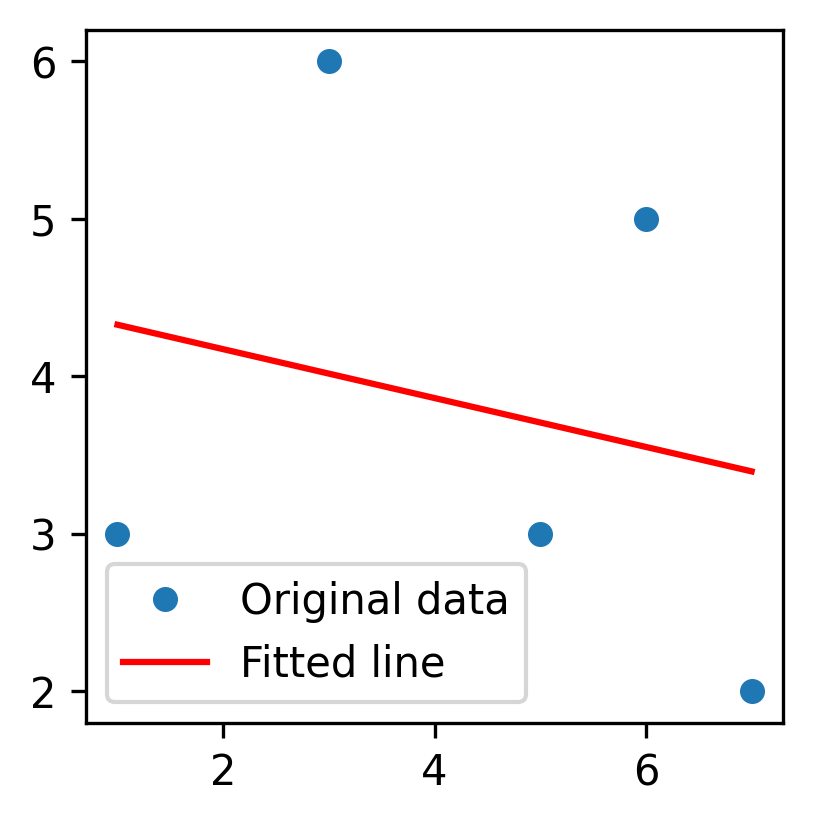
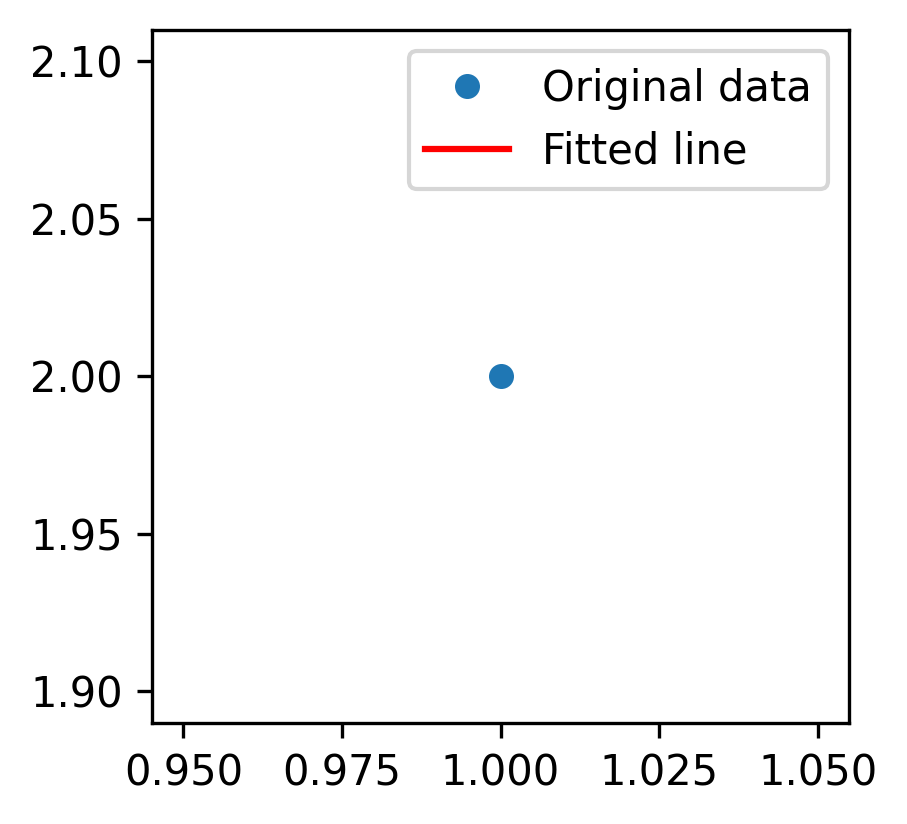
сделали модульность кодов, создали юниттесты для них

diff --git a/UP02_group_3/static/content/style.css b/UP02_group_3/static/content/style.css
@@ -334,7 +334,6 @@ button {
     .page-layout > .m .c1 {
         margin: 12px 0 0 0;
     }
-}
 
 @media screen and (max-width: 600px) {
     .page-layout .l {

diff --git a/UP02_group_3/approx_2dg.py b/UP02_group_3/approx_2dg.py
@@ -6,88 +6,34 @@ from sklearn.metrics import r2_score
 
 @post('/approx2', method='POST')
 def approx2():
-    if request.forms.get('dg2_btn'):
-        try:
-            err_msg='Ошибка входных данных!'
+    req = request.forms.get('dg2_btn')
+    try:
+        err_msg='Ошибка входных данных!'
+    
+        # Получение коэффициентов из формы
+        x_arr = np.array(request.forms.get('X').split(), dtype=float)
+        y_arr = np.array(request.forms.get('Y').split(), dtype=float)
+        if not req:
+            num_elements = 10  # Заданное количество элементов
+            x_arr = np.array([random.uniform(0.0, 100.0) for _ in range(num_elements)], dtype=float)
+            y_arr = np.array([random.uniform(0.0, 100.0) for _ in range(num_elements)], dtype=float) 
 
-            # Получение коэффициентов из формы
-            x_arr = np.array(request.forms.get('X').split(), dtype=float)
-            y_arr = np.array(request.forms.get('Y').split(), dtype=float)
+        x, y = combine(x_arr, y_arr)
 
-            # Объединение массивов x и y в список пар
-            combined = list(zip(x_arr, y_arr))
-
-            # Сортировка списка пар по возрастанию значений x
-            combined.sort(key=lambda pair: pair[0])
-
-            # Разделение пар обратно на массивы x и y
-            x_sorted, y_sorted = zip(*combined)
-
-            # Преобразование обратно в массивы NumPy
-            x = np.array(x_sorted)
-            y = np.array(y_sorted)
-
-            #проверка на то, чтобы график не был одной точкой
-            trigg = False
-            for i in range(1, len(x)):
-                if x[i] != x[0]:
-                    trigg = True
-                else:
-                    trigg = False
-            for i in range(1, len(y)):
-                if y[i] != y[0]:
-                    trigg = True
-                else:
-                    trigg = False
-
-            # Аппроксимация методом наименьших квадратов
-            A = np.vstack([x**2, x, np.ones(len(x))]).T
-            k, b, c = np.linalg.lstsq(A, y, rcond=None)[0]
-            y_pred = k*x**2 + b*x + c
-            r2 = r2_score(y, y_pred) #вычисление коэффициента детерминации
-
-            # Построение графика
-            fig, ax = plt.subplots(figsize=(5, 5))
-            ax.plot(x, y, 'o', label='Исходные данные', markersize=5)
-            ax.plot(x, k * x**2 + b * x + c, 'r', label='Приближенная линия')
-            ax.set_xlabel('x')
-            ax.set_ylabel('y')
-            ax.legend()
-            ax.grid(True)
-            plt.show()
-            plt.savefig('static/images/square1.png', dpi=300, bbox_inches='tight') #сохранение построенного графика
-
-            msg='Коэффициенты квадратичной линии регрессии: a0={}, a1={} a2={} \nКоэффициент детерминированности R2={}'.format(toFixed(k), toFixed(b), toFixed(c), toFixed(r2))
-            
-            # Возвращает темплейт
-            if trigg != True:
-                return template('approxim_2deg.tpl', title='Аппроксимация 2-й ст.', image_data='static\images\graph_strt.png', message=err_msg)
+        #проверка на то, чтобы график не был одной точкой
+        trigg = False
+        for i in range(1, len(x)):
+            if x[i] != x[0]:
+                trigg = True
             else:
-                return template('approxim_2deg.tpl', title='Аппроксимация 2-й ст.', image_data='static\images\square1.png', message=msg)
-        except:
-            return template('approxim_2deg.tpl', title='Аппроксимация 2-й ст.', image_data='static\images\graph_strt.png', message=err_msg)
-    else:
-        num_elements = 10  # Заданное количество элементов
-        x_arr = np.array([random.uniform(0.0, 100.0) for _ in range(num_elements)], dtype=float)
-        y_arr = np.array([random.uniform(0.0, 100.0) for _ in range(num_elements)], dtype=float) 
-        # Объединение массивов x и y в список пар
-        combined = list(zip(x_arr, y_arr))
+                trigg = False
+        for i in range(1, len(y)):
+            if y[i] != y[0]:
+                trigg = True
+            else:
+                trigg = False
 
-        # Сортировка списка пар по возрастанию значений x
-        combined.sort(key=lambda pair: pair[0])
-
-        # Разделение пар обратно на массивы x и y
-        x_sorted, y_sorted = zip(*combined)
-
-        # Преобразование обратно в массивы NumPy
-        x = np.array(x_sorted)
-        y = np.array(y_sorted)
-
-        # Аппроксимация методом наименьших квадратов
-        A = np.vstack([x**2, x, np.ones(len(x))]).T
-        k, b, c = np.linalg.lstsq(A, y, rcond=None)[0]
-        y_pred = k*x**2 + b*x + c
-        r2 = r2_score(y, y_pred)
+        k, b, c, r2 =calc(x, y)
 
         # Построение графика
         fig, ax = plt.subplots(figsize=(5, 5))
@@ -98,13 +44,42 @@ def approx2():
         ax.legend()
         ax.grid(True)
         plt.show()
-
-        plt.savefig('static/images/square2.png', dpi=300, bbox_inches='tight') #сохранение построенного графика
-
+        plt.savefig('static/images/square1.png', dpi=300, bbox_inches='tight') #сохранение построенного графика
+        
         msg='X = {}; Y = {} \nКоэффициенты квадратичной линии регрессии: a0={}, a1={} a2={} \nКоэффициент детерминированности R2={}'.format(x.round(), y.round(), toFixed(k), toFixed(b), toFixed(c), toFixed(r2))
+
         # Возвращает темплейт
-        return template('approxim_2deg.tpl', title='Аппроксимация 2-й ст.', image_data='static\images\square2.png', message=msg)
+        if trigg != True:
+            return template('approxim_2deg.tpl', title='Аппроксимация 2-й ст.', image_data='static\images\graph_strt.png', message=err_msg)
+        else:
+            return template('approxim_2deg.tpl', title='Аппроксимация 2-й ст.', image_data='static\images\square1.png', message=msg)
+    except:
+        return template('approxim_2deg.tpl', title='Аппроксимация 2-й ст.', image_data='static\images\graph_strt.png', message=err_msg)
 
 def toFixed(numObj):
     digits=3
     return f"{numObj:.{digits}f}"
+
+def combine(x_arr, y_arr):
+    # Объединение массивов x и y в список пар
+    combined = list(zip(x_arr, y_arr))
+
+    # Сортировка списка пар по возрастанию значений x
+    combined.sort(key=lambda pair: pair[0])
+
+    # Разделение пар обратно на массивы x и y
+    x_sorted, y_sorted = zip(*combined)
+
+    # Преобразование обратно в массивы NumPy
+    x = np.array(x_sorted)
+    y = np.array(y_sorted)
+    return x, y
+
+def calc(x, y):
+    # Аппроксимация методом наименьших квадратов
+    A = np.vstack([x**2, x, np.ones(len(x))]).T
+    k, b, c = np.linalg.lstsq(A, y, rcond=None)[0]
+    y_pred = k*x**2 + b*x + c
+    r2 = r2_score(y, y_pred) #вычисление коэффициента детерминации
+    return k, b, c, r2
+

diff --git a/UP02_group_3/approx_1dg.py b/UP02_group_3/approx_1dg.py
@@ -4,64 +4,48 @@ from datetime import datetime
 import matplotlib.pyplot as plt
 from sklearn.metrics import r2_score
 
+def calculate_linear_regression(x, y):
+    A = np.vstack([x, np.ones(len(x))]).T
+    k, b = np.linalg.lstsq(A, y, rcond=None)[0]
+    y_pred = k * x + b
+    r2 = r2_score(y, y_pred)
+    return k.round(), b.round(), r2.round()
+
+def plot_graph(x, y, k, b):
+    fig, ax = plt.subplots(figsize=(3, 3))
+    ax.plot(x, y, 'o', label='Original data', markersize=5)
+    ax.plot(x, k * x + b, 'r', label='Fitted line')
+    ax.legend()
+    plt.savefig('static/images/graph5.png', dpi=300, bbox_inches='tight')
+
 @post('/approx1', method='POST')
 def approx1():
-    if request.forms.get('deg1_btn'):
-        try:
-            # Получение коэффициентов из формы
-            x = np.array(request.forms.get('X').split(), dtype=float)
-            y = np.array(request.forms.get('Y').split(), dtype=float)
-
-            trigg = False
-            for i in range(1, len(x)):
-                if x[i] != x[0]:
-                    trigg = True
-                else:
-                    trigg = False
-            for i in range(1, len(y)):
-                if y[i] != y[0]:
-                    trigg = True
-                else:
-                    trigg = False
-
-            
-            # Основные вычисления
-            
-            A = np.vstack([x, np.ones(len(x))]).T
-            k, b = np.linalg.lstsq(A, y, rcond=None)[0]
-            y_pred = k*x + b
-            r2 = r2_score(y, y_pred)
-
-            # построение графика
-            fig, ax = plt.subplots(figsize=(3, 3))
-            ax.plot(x, y, 'o', label='Original data', markersize=5)
-            ax.plot(x, k*x + b, 'r', label='Fitted line')
-            ax.legend()
-            plt.savefig('static/images/graph5.png', dpi=300, bbox_inches='tight')
-
-            # Возвращает темплейт
-            if trigg != True:
-                return template('approxim_1deg.tpl', title='linear', image_data='static\images\graph5.png',year=datetime.now().year, k= 'err', b= 'err', r = 'err', ex ='Ошибка входных данных!! ')
+    req = request.forms.get('deg1_btn')
+    try:
+        x = np.array(request.forms.get('X').split(), dtype=float)
+        y = np.array(request.forms.get('Y').split(), dtype=float)
+        if not req:
+            x = np.array("1 3 5 6 7".split(), dtype=float)
+            y = np.array("3 6 3 5 2".split(), dtype=float)
+        
+        trigg = False
+        for i in range(1, len(x)):
+            if x[i] != x[0]:
+                trigg = True
             else:
-                return template('approxim_1deg.tpl', title='linear', image_data='static\images\graph5.png',year=datetime.now().year, k=k.round(), b=b.round(), r = r2.round(), ex = '')
-        except:
-            return template('approxim_1deg.tpl', title='linear', image_data='static\images\graph5.png',year=datetime.now().year, k= 'err', b= 'err', r = 'err', ex ='Ошибка входных данных!! ')
-    else:
-        x = np.array("1 3 5 6 7".split(), dtype=float)
-        y = np.array("3 6 3 5 2".split(), dtype=float)
+                trigg = False
+        for i in range(1, len(y)):
+            if y[i] != y[0]:
+                trigg = True
+            else:
+                trigg = False
 
-            # Основные вычисления
-        A = np.vstack([x, np.ones(len(x))]).T
-        k, b = np.linalg.lstsq(A, y, rcond=None)[0]
-        y_pred = k*x + b
-        r2 = r2_score(y, y_pred)
+        if trigg:
+            k, b, r2 = calculate_linear_regression(x, y)
+            plot_graph(x, y, k, b)
+            return template('approxim_1deg.tpl', title='linear', image_data='static\images/graph5.png', year=datetime.now().year, k=k, b=b, r=r2, ex='')
+        else:
+            return template('approxim_1deg.tpl', title='linear', image_data='static/images/graph5.png', year=datetime.now().year, k='err', b='err', r='err', ex='Ошибка входных данных!!')
+    except:
+        return template('approxim_1deg.tpl', title='linear', image_data='static/images/graph5.png', year=datetime.now().year, k='err', b='err', r='err', ex='Ошибка входных данных!!')
 
-            # построение графика
-        fig, ax = plt.subplots(figsize=(3, 3))
-        ax.plot(x, y, 'o', label='Original data', markersize=5)
-        ax.plot(x, k*x + b, 'r', label='Fitted line')
-        ax.legend()
-        plt.savefig('static/images/graph5.png', dpi=300, bbox_inches='tight')
-
-            # Возвращает темплейт
-        return template('approxim_1deg.tpl', title='linear', image_data='static\images\graph5.png',year=datetime.now().year, k=k.round(), b=b.round(), r = r2.round(), ex = 'Пример: x - [1 3 5 6 7], y - [3 6 3 5 2], ')

diff --git a/UP02_group_3/test.py b/UP02_group_3/test.py
@@ -1,0 +1,90 @@
+import unittest
+import numpy as np
+import os
+from approx_2dg import combine, calc, toFixed
+from approx_1dg import calculate_linear_regression, plot_graph
+
+class TestApproximation(unittest.TestCase):
+    
+    def test_combine(self):
+        test_data = [
+            ([1, 3, 2], [4, 6, 5], [1, 2, 3], [4, 5, 6]),
+            ([2, 4, 6], [8, 10, 12], [2, 4, 6], [8, 10, 12]),
+        ]
+        
+        for x_arr, y_arr, expected_x, expected_y in test_data:
+            x, y = combine(x_arr, y_arr)
+            self.assertEqual(list(x), expected_x)
+            self.assertEqual(list(y), expected_y)
+    
+    def test_calc(self):
+        test_data = [
+            (np.array([1, 2, 3]), np.array([4, 5, 6]), 0.0, 1.0, 3.0, 1.0),
+            (np.array([2, 4, 6]), np.array([8, 10, 12]), 0.0, 1.0, 6.0, 1.0),
+        ]
+        
+        for x, y, expected_k, expected_b, expected_c, expected_r2 in test_data:
+            k, b, c, r2 = calc(x, y)
+            self.assertAlmostEqual(k, expected_k, places=7)
+            self.assertAlmostEqual(b, expected_b, places=7)
+            self.assertAlmostEqual(c, expected_c, places=7)
+            self.assertAlmostEqual(r2, expected_r2, places=7)
+
+    def test_toFixed(self):
+        test_data = [
+            (3.14159, '3.142'),
+            (2.71828, '2.718'),
+        ]
+        
+        for num, expected_fixed_num in test_data:
+            fixed_num = toFixed(num)
+            self.assertEqual(fixed_num, expected_fixed_num)
+
+class TestCalculateLinearRegression(unittest.TestCase):
+    def test_calculate_linear_regression(self):
+        x = np.array([1, 2, 3, 4, 5])
+        y = np.array([2, 4, 6, 8, 10])
+        expected_k = 2.0
+        expected_b = 0.0
+        expected_r2 = 1.0
+
+        k, b, r2 = calculate_linear_regression(x, y)
+
+        self.assertEqual(k, expected_k)
+        self.assertEqual(b, expected_b)
+        self.assertEqual(r2, expected_r2)
+
+
+class TestPlotGraph(unittest.TestCase):
+    def test_plot_graph(self):
+        x = np.array([1, 2, 3, 4, 5])
+        y = np.array([2, 4, 6, 8, 10])
+        k = 2.0
+        b = 0.0
+
+        plot_graph(x, y, k, b)
+
+        self.assertTrue(os.path.exists('static/images/graph5.png'))
+
+    def test_plot_graph_empty_data(self):
+        x = np.array([])
+        y = np.array([])
+        k = 2.0
+        b = 0.0
+
+        plot_graph(x, y, k, b)
+
+        self.assertTrue(os.path.exists('static/images/graph5.png'))
+
+    def test_plot_graph_single_point(self):
+        x = np.array([1])
+        y = np.array([2])
+        k = 2.0
+        b = 0.0
+
+        plot_graph(x, y, k, b)
+
+        self.assertTrue(os.path.exists('static/images/graph5.png'))
+
+if __name__ == '__main__':
+    unittest.main()
